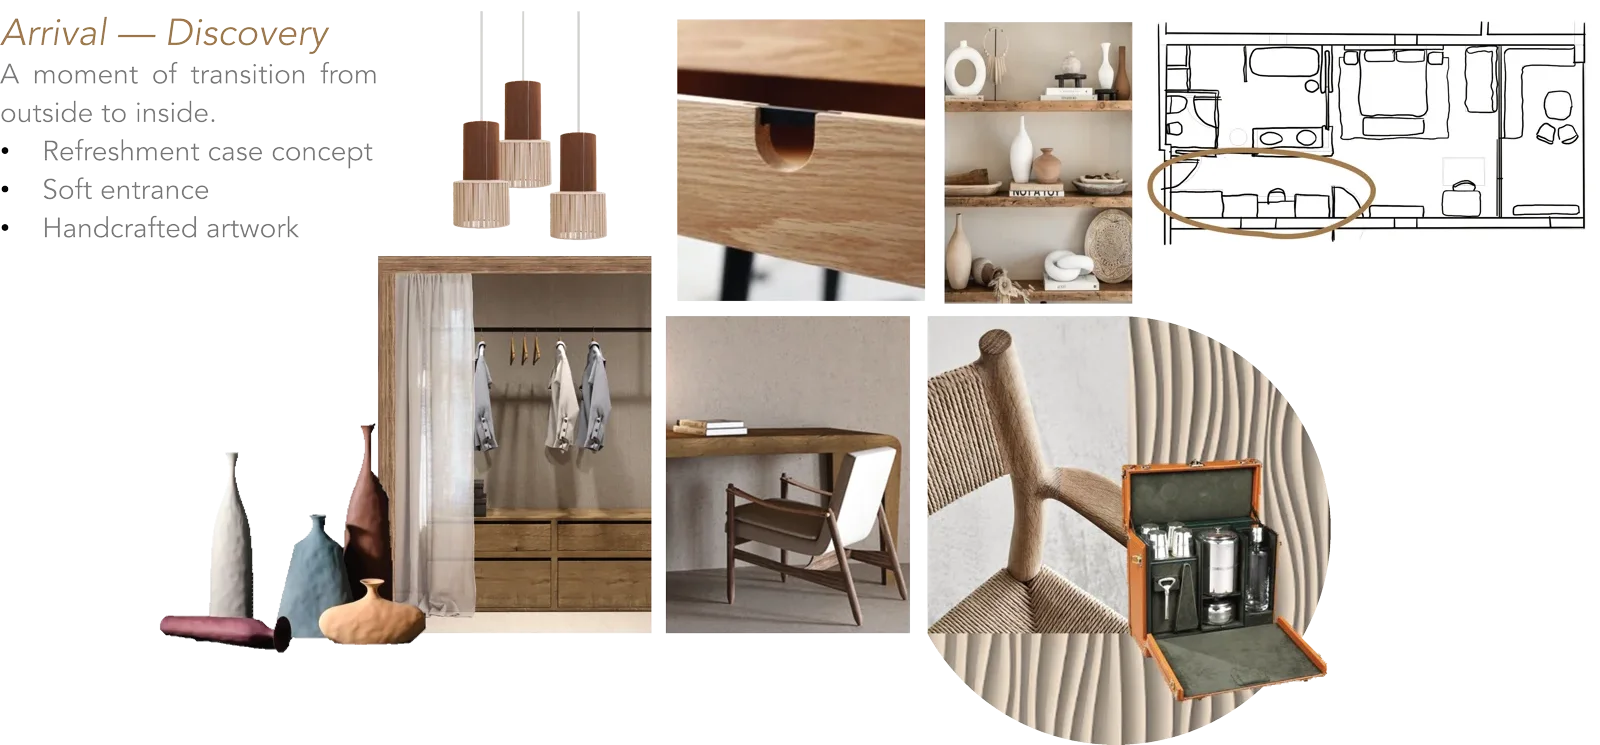
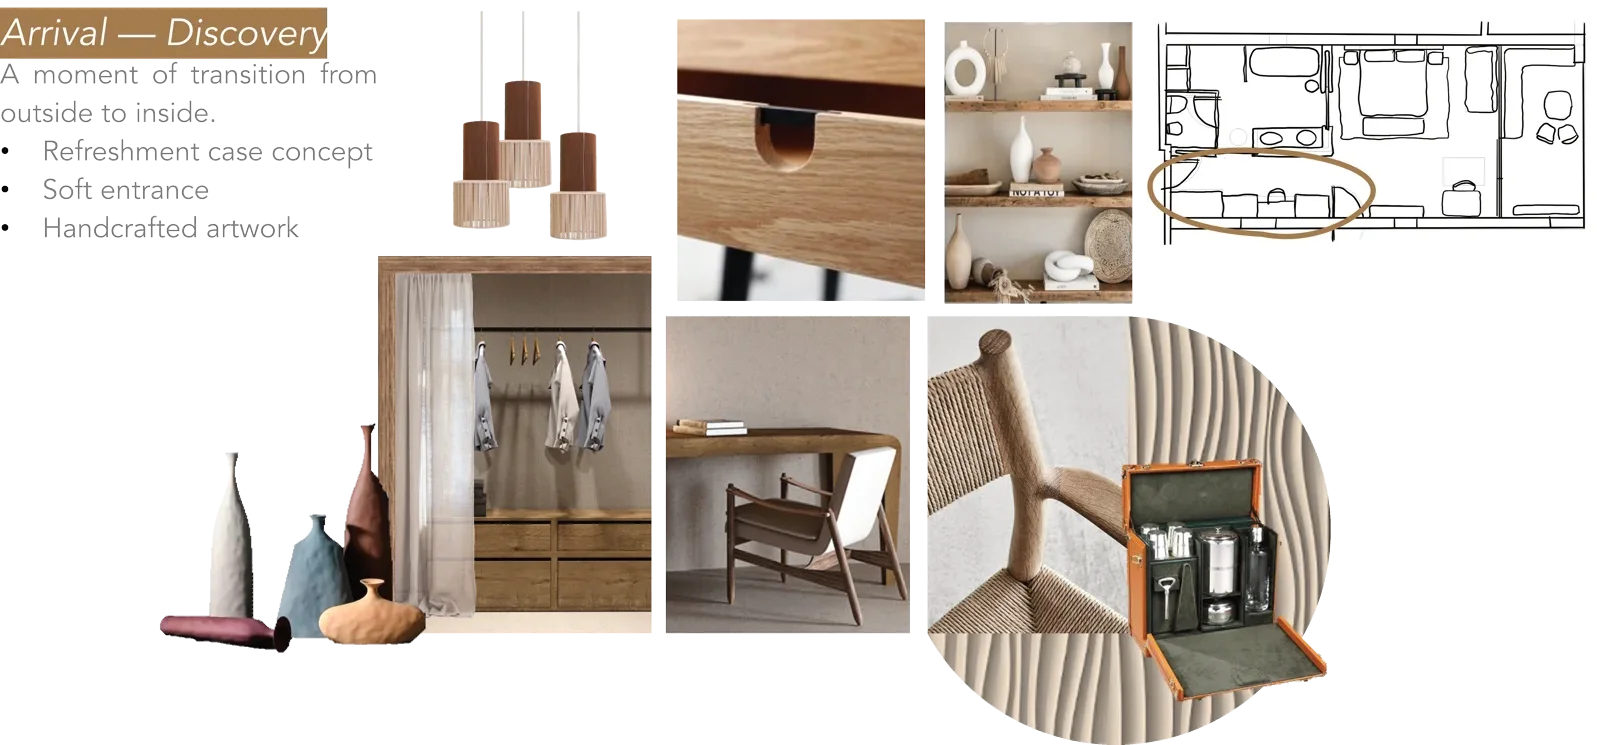
Add Bathroom FF&E moodboard and refresh Bedroom/Refreshments images

Changed region(s): [[0.0, 0.0, 0.2188, 0.0926]]

diff --git a/src/components/ProjectModal.jsx b/src/components/ProjectModal.jsx
@@ -361,6 +361,8 @@ export default function ProjectModal({ project, onClose }) {
               <img src="/projects/between-tide-time/ffe-refreshments-wardrobe.webp" alt="Refreshments and wardrobe FF&E moodboard with arrival narrative, joinery, and styling details" className="w-full h-auto rounded-sm" />
               <p className="text-xs italic mt-6 mb-4 ml-4" style={{ color: '#fdbf69' }}>Bedroom</p>
               <img src="/projects/between-tide-time/ffe-bedroom.webp" alt="Bedroom FF&E moodboard with lighting, textiles, bed, and furniture details" className="w-full h-auto rounded-sm" />
+              <p className="text-xs italic mt-6 mb-4 ml-4" style={{ color: '#fdbf69' }}>Bathroom</p>
+              <img src="/projects/between-tide-time/ffe-bathroom.webp" alt="Bathroom FF&E moodboard with fixtures, stone surfaces, and rainfall shower details" className="w-full h-auto rounded-sm" />
             </div>
           )}
 
